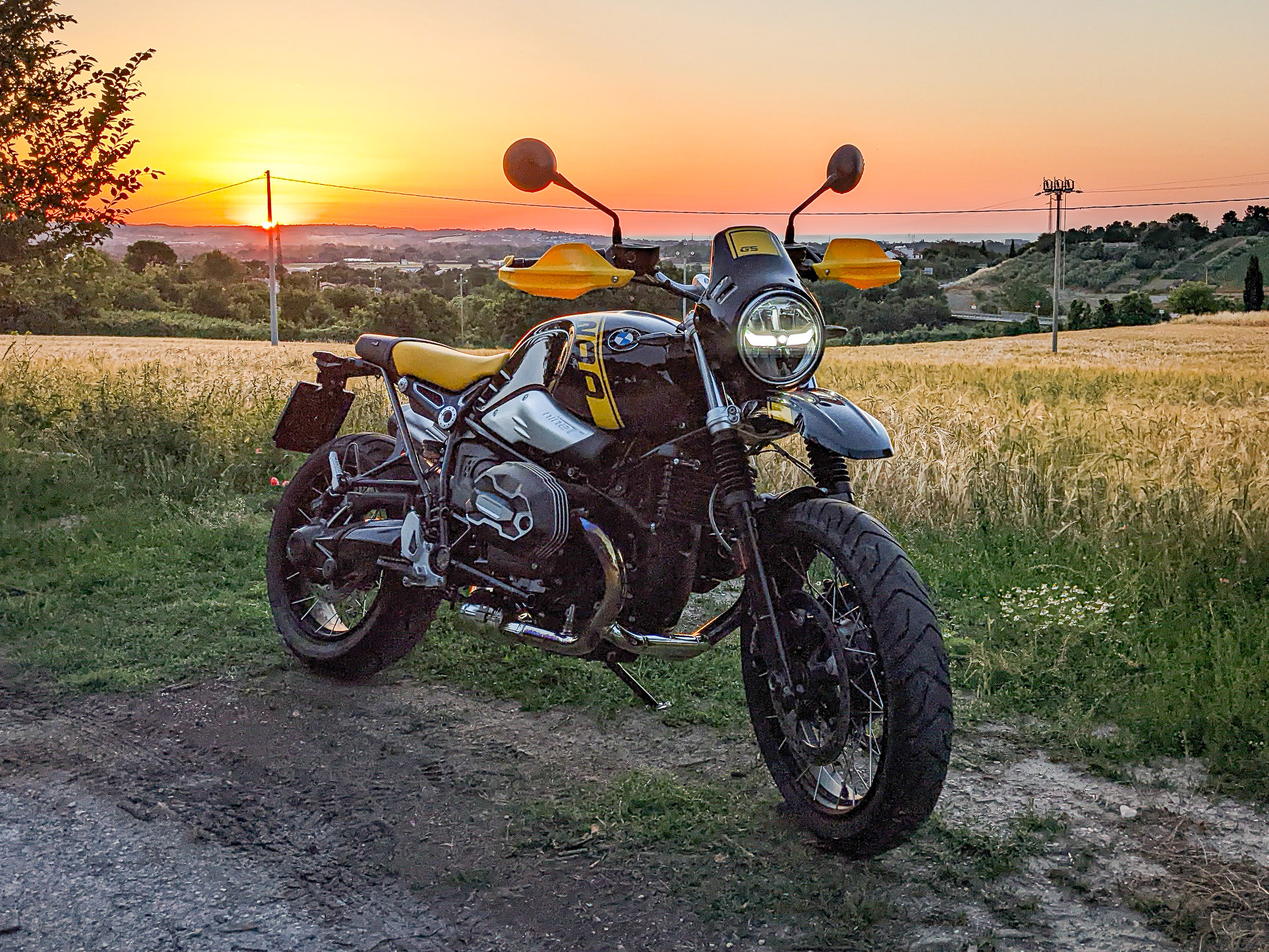
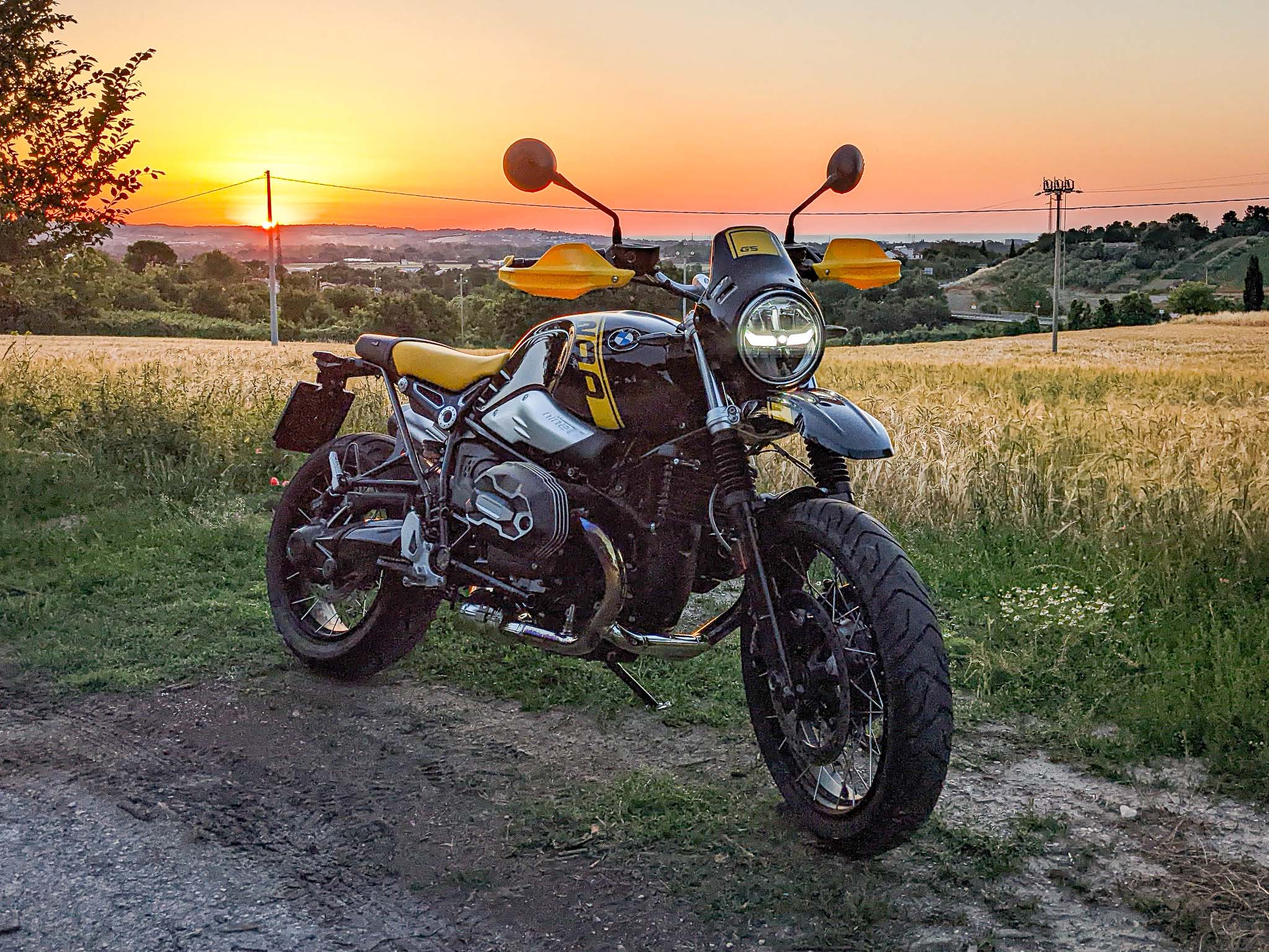
New Veolia Page
+ image optimization
+ small optimizations and fixes

diff --git a/pageVeolia.html b/pageVeolia.html
@@ -1,0 +1,172 @@
+<!DOCTYPE html>
+<html>
+    <head>
+
+      <title>Massimo Pietrucci Portfolio</title>
+      <link rel="icon" type="image/x-icon" href="logoiconV2.png" style="object-fit: cover;">
+
+        <meta charset="UTF8">
+        <link rel="stylesheet" href="reset.css">
+        <link rel="stylesheet" href="hamburger.css">
+        <link rel="stylesheet" href="master.css">
+        <link rel="stylesheet" href="pageStyle.css">
+
+        <script src="menuHide.js" defer></script>
+
+
+        <meta name="viewport" content="width=device-width, initialscale=1">
+        <script src="sliderScript.js" defer></script>
+        <script>
+            function toggleActive(elementId) {
+              document.getElementById(elementId).classList.toggle("active");
+            }
+          </script>
+    </head>
+    <body>
+        <div class="content-wrap">
+            <div id="menu">
+                <div id="hamburger" onclick="toggleActive('menu')">
+                  <div class="hamburgerBar"></div>
+                  <div class="hamburgerBar"></div>
+                  <div class="hamburgerBar"></div>
+                </div>
+                <div id="logo"><a href="index.html#about"><img src="Media/FirmaBianca@4x.png" alt=""></a></div>
+                
+                <ul>
+                  <li><a href="index.html#about">About</a></li>
+                  <li><a href="index.html#projects">Projects</a></li>
+                  <li><a href="index.html#showcase">Photo Gallery</a></li>
+                </ul>
+              </div>
+
+
+
+        <div class="wrapper" style="padding-top: 150px;">
+        </div>
+
+        <div class="wrapper">
+
+          <div class="about-text page-intro paddingBottom1">
+            <h2>Graphic Design intern at Veolia</h2>
+              <p>
+                As an intern in the Communication Office at Veolia, 
+                I had the opportunity to face the diverse challenges of working within a large multinational corporation. 
+                Collaborating with colleagues from various backgrounds, 
+                I contributed to corporate communication efforts while ensuring that all projects 
+                adhered to the company’s branding guidelines.
+              </p>
+        </div>
+  </div>
+  <div class="wrapper wOrizzontale full-width three-items">
+    <img src="Media/Veolia/Key-1.jpg" alt="">
+    <img src="Media/Veolia/Key-2.jpg" alt="">
+    <img src="Media/Veolia/Key-3.jpg" alt="">
+  </div>
+
+  <div class="wrapper about-text paddingTop1 paddingBottom1">
+    <p>My role involved transforming my colleagues’ ideas into visually compelling designs, 
+      often requiring me to grasp technical concepts to create effective, tailored solutions. 
+      One of my first major projects was the design of Veolia’s stand at the Key Energy 24 trade fair, 
+      an event focused on energy—the company’s primary business sector in Italy. 
+      I was responsible for designing the graphics for thematic sections of the stand, 
+      providing input on the overall design, and creating print materials like the workshop program 
+      and social media posts that aligned with the event’s branding.
+    </p>
+   </div>
+
+
+        <div class="sliderWrapper full-width">
+          <i id="left" class="fa-solid fa-angle-left"><</i>
+          <ul class="carousel">
+            <li class="sliderCard">
+              <div class="img"><img src="Media/Veolia/Roll-Up Mockup.jpg" alt="img" draggable="false"></div>
+            </li>
+            <li class="sliderCard">
+              <div class="img"><img src="Media/Veolia/Intranet.jpg" alt="img" draggable="false"></div>
+
+            </li>
+            <li class="sliderCard">
+              <div class="img"><img src="Media/Veolia/Trifold Brochure Mockup.jpg" alt="img" draggable="false"></div>
+
+            </li>
+            <li class="sliderCard">
+              <div class="img"><img src="Media/Veolia/InspMockup.jpg" alt="img" draggable="false"></div>
+
+            </li>
+            <li class="sliderCard">
+              <div class="img"><img src="Media/Veolia/Calendarietto.jpg" alt="img" draggable="false"></div>
+
+            </li>
+
+          </ul>
+          <i id="right" class="fa-solid fa-angle-right">></i>
+        </div>
+        <div class="wrapper about-text ">
+          <p class="paddingTop1 paddingBottom1">
+            My work was split between print and digital media, covering a range of formats. 
+            I created newsletters, LinkedIn posts, website content, and intranet materials, 
+            while also producing printed items such as internal communication posters, 
+            corporate event collateral, roll-ups, leaflets, and even a compliance rule handbook/calendar. <br>
+            I particularly enjoyed capturing photos and videos for internal communication, events, and site visits. 
+            These tasks allowed me to combine my love for photography with my professional role.
+          </p>
+        </div>
+
+        <div class="wrapper wOrizzontale full-width three-items">
+          <img src="Media/Veolia/Webinar-1.jpg" alt="">
+          <img src="Media/Veolia/Mudec-1.jpg" alt="">
+          <img src="Media/Veolia/PlasticFree-1.jpg" alt="">
+        </div>
+
+
+
+        <div class="wrapper about-text paddingTop1 paddingBottom1"><p>
+          Beyond refining my technical design skills, 
+          my internship at Veolia taught me valuable lessons in corporate communication, 
+          client and supplier management, and multitasking across multiple projects. 
+          I also gained experience collaborating with external design studios on larger, 
+          outsourced projects, giving me a strong foundation for working in and with major corporations like Veolia.
+        </p></div>
+      </div>
+
+      <div class="content-wrap">
+
+        <div class="wrapper"><h1>Info</h1></div>
+
+        <div class="wrapper infoTab">
+            <li>Role</li>            <li>Photo, video, graphic designer, visual communicator</li>
+
+            <li>Programs</li>            <li>Adobe Suite, Figma, Canva</li>
+
+            <li>Duration</li>            <li>9 months</li>
+
+            <li>Company</li>            <li>Siram Veolia S.p.a.</li>
+
+        </div>
+      </div>
+
+        
+    
+      <footer>
+        <div class="footerWrap">
+
+        <div class="footer-grid">
+                <p style="grid-column: 1; grid-row: 1;">Site Map:</p>
+                <p style="grid-column: 2; grid-row: 1;"><a href="index.html#about"> About</a></p>
+                <p style="grid-column: 2; grid-row: 2;"><a href="index.html#projects"> Projects</a></p>
+                <p style="grid-column: 2; grid-row: 3;"><a href="index.html#showcase"> Photo Gallery</a></p>
+        </div>
+
+        <div class="footer-grid">
+            <p style="grid-column: 1; grid-row: 1;">Contacts:</p>
+            <p style="grid-column: 2; grid-row: 1;"> <a href="mailto:massipietrucci@gmail.com"> massipietrucci@gmail.com</a></p>
+            <p style="grid-column: 2; grid-row: 2;"><a href="https://www.linkedin.com/in/massimo-pietrucci-610339299/"> LinkedIn</a></p>
+            <p style="grid-column: 2; grid-row: 3;"><a href="https://github.com/SwagBoy2000"> GitHub</a></p>
+            <p style="grid-column: 2; grid-row: 4;"><a href="https://www.instagram.com/massipietrucci/"> Instagram</a></p>
+    </div>
+    <div id="copyright">© 2023 Massimo Pietrucci. All rights reserved.</div>
+
+    </div>
+       </footer>
+</body>
+</html>

diff --git a/index.html b/index.html
@@ -47,7 +47,7 @@
 
                 <!--<div class="about-title"><h1>That's Me</h1></div>-->
                 
-                <div class="about-text"> <p>
+                <div class="real-about-text"> <p>
                     Hi! I’m Massimo, a recent graduate from Politecnico di Milano. 
                     Throughout my studies, I explored design in its many forms, 
                     and I’m now working as a graphic designer at Veolia. 
@@ -96,6 +96,29 @@
                     </div>
                     
                 </div></a>
+
+                <a href="pageVeolia.html">
+                    <div class="big-card">
+                        
+                        <div class="card-image">
+                            
+                            <img src="Media/Veolia/Artboard 1.jpg" alt="">
+                         
+                        </div>
+                        <div class="card-text">
+                            <h2>Veolia</h2>
+                            <p>
+                                At Veolia, a global leader in resource management, 
+                                I worked as a graphic design intern in the Communication Office. 
+                                I contributed to various corporate projects, ensuring visual communication 
+                                aligned with Veolia’s branding and sustainability goals. 
+                                During this time I large variety of artifacts, such as: posters, newsletters, 
+                                social media, video, for internal and external communication.
+                            </p>
+                        </div>
+                        
+                    </div></a>
+    
 
                 <a href="pagePinocchio.html">
                     <div class="big-card">
@@ -150,7 +173,7 @@
                 <a href="pageCarte.html">
                 <div class="big-card">
                     <div class="card-image">
-                        <img src="Media/Carte/mockupcarte5.png" alt="">
+                        <img src="Media/Carte/mockupcarte5.jpg" alt="">
                     </div>
                     <div class="card-text">
                         <h2>Milan's Squares</h2>
@@ -164,7 +187,7 @@
                 <a href="pageTipografia.html">
                 <div class="big-card">
                     <div class="card-image">
-                        <img src="Media/Tipografia/detail.png" alt="">
+                        <img src="Media/Tipografia/detail.jpg" alt="">
                     </div>
                     <div class="card-text">
                         <h2>Arcade Typography</h2>

diff --git a/master.css b/master.css
@@ -191,11 +191,17 @@ li a:hover {
     grid-template-columns: repeat(4, 1fr);
 }
 
-
-
-.about-text {
+.real-about-text {
     grid-column: 1 / span 3;
     font-size: clamp(14px, 2.5vw, 28px);
+  }
+
+  .real-about-text p {
+    transition: 0.3s;
+}
+
+.about-text {
+    font-size: clamp(14px, 1.5vw, 26px);
   }
 
 .about-text p {
@@ -505,9 +511,15 @@ footer p a {
 
     .wOrizzontale {
         flex-direction: row;
-        height: 400px;
+        height: 25vw;
         gap: 20px;
     }
+
+    .three-items {
+        height: 20vw;
+    }
+
+
 
     .about-text {
         grid-column: 1 / span 2;

diff --git a/pageCarte.html b/pageCarte.html
@@ -68,8 +68,8 @@ degree view of the square.
 
 
   <div class="wrapper wOrizzontale ">
-    <img src="Media/Carte/mockupcarte5.png" alt="">
-    <img src="Media/Carte/mockupcarte9edit.png" alt="">
+    <img src="Media/Carte/mockupcarte5.jpg" alt="">
+    <img src="Media/Carte/mockupcarte9edit.jpg" alt="">
 
   </div>
 
@@ -88,7 +88,7 @@ degree view of the square.
       <div class="content-wrap">
 
         <div class="wrapper paddingTop1 paddingBottom1">
-          <img src="Media/Carte/mockupcarte8blur.png" alt="">
+          <img src="Media/Carte/mockupcarte8blur.jpg" alt="">
 
         </div>
 

diff --git a/pageTipografia.html b/pageTipografia.html
@@ -69,8 +69,8 @@
 
 
   <div class="wrapper wOrizzontale ">
-    <img src="Media/Tipografia/detail.png" alt="">
-    <img src="Media/Tipografia/detail2.png" alt="">
+    <img src="Media/Tipografia/detail.jpg" alt="">
+    <img src="Media/Tipografia/detail2.jpg" alt="">
 
   </div>
 

diff --git a/pagePinocchio.html b/pagePinocchio.html
@@ -62,7 +62,7 @@
               </p>
         </div>
 
-  </div>
+           </div>
 
 
         <div class="sliderWrapper full-width">
